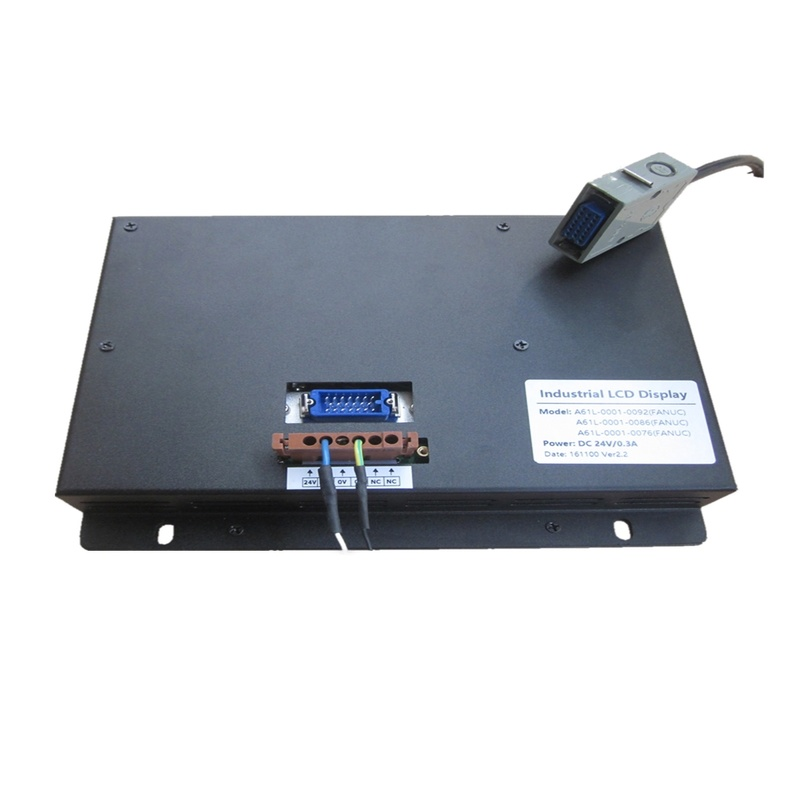
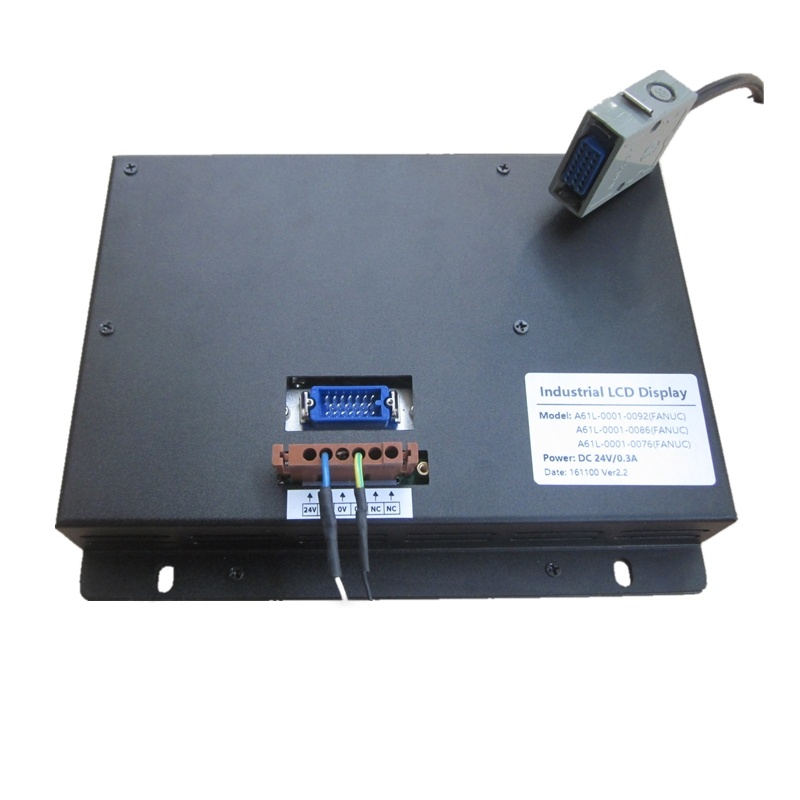
fix: rembg intermediate resize preserve aspect ratio - 0076/0090/0092 no deformation

diff --git a/scripts/product_images.py b/scripts/product_images.py
@@ -423,8 +423,13 @@ def process_image(src_path, dst_path, use_rembg=False):
     if use_rembg:
         try:
             from rembg import remove, new_session
-            # Resize to 1200x900 first for better rembg performance
-            im_small = im.resize((1200, 900), Image.LANCZOS)
+            # Resize to max 1200px on longest side (preserve aspect ratio)
+            max_dim = 1200
+            r = min(max_dim / im.width, max_dim / im.height)
+            if r < 1:
+                im_small = im.resize((int(im.width * r), int(im.height * r)), Image.LANCZOS)
+            else:
+                im_small = im.copy()
             session = new_session('u2net')
             im = remove(im_small, session=session,
                        alpha_matting=True,
